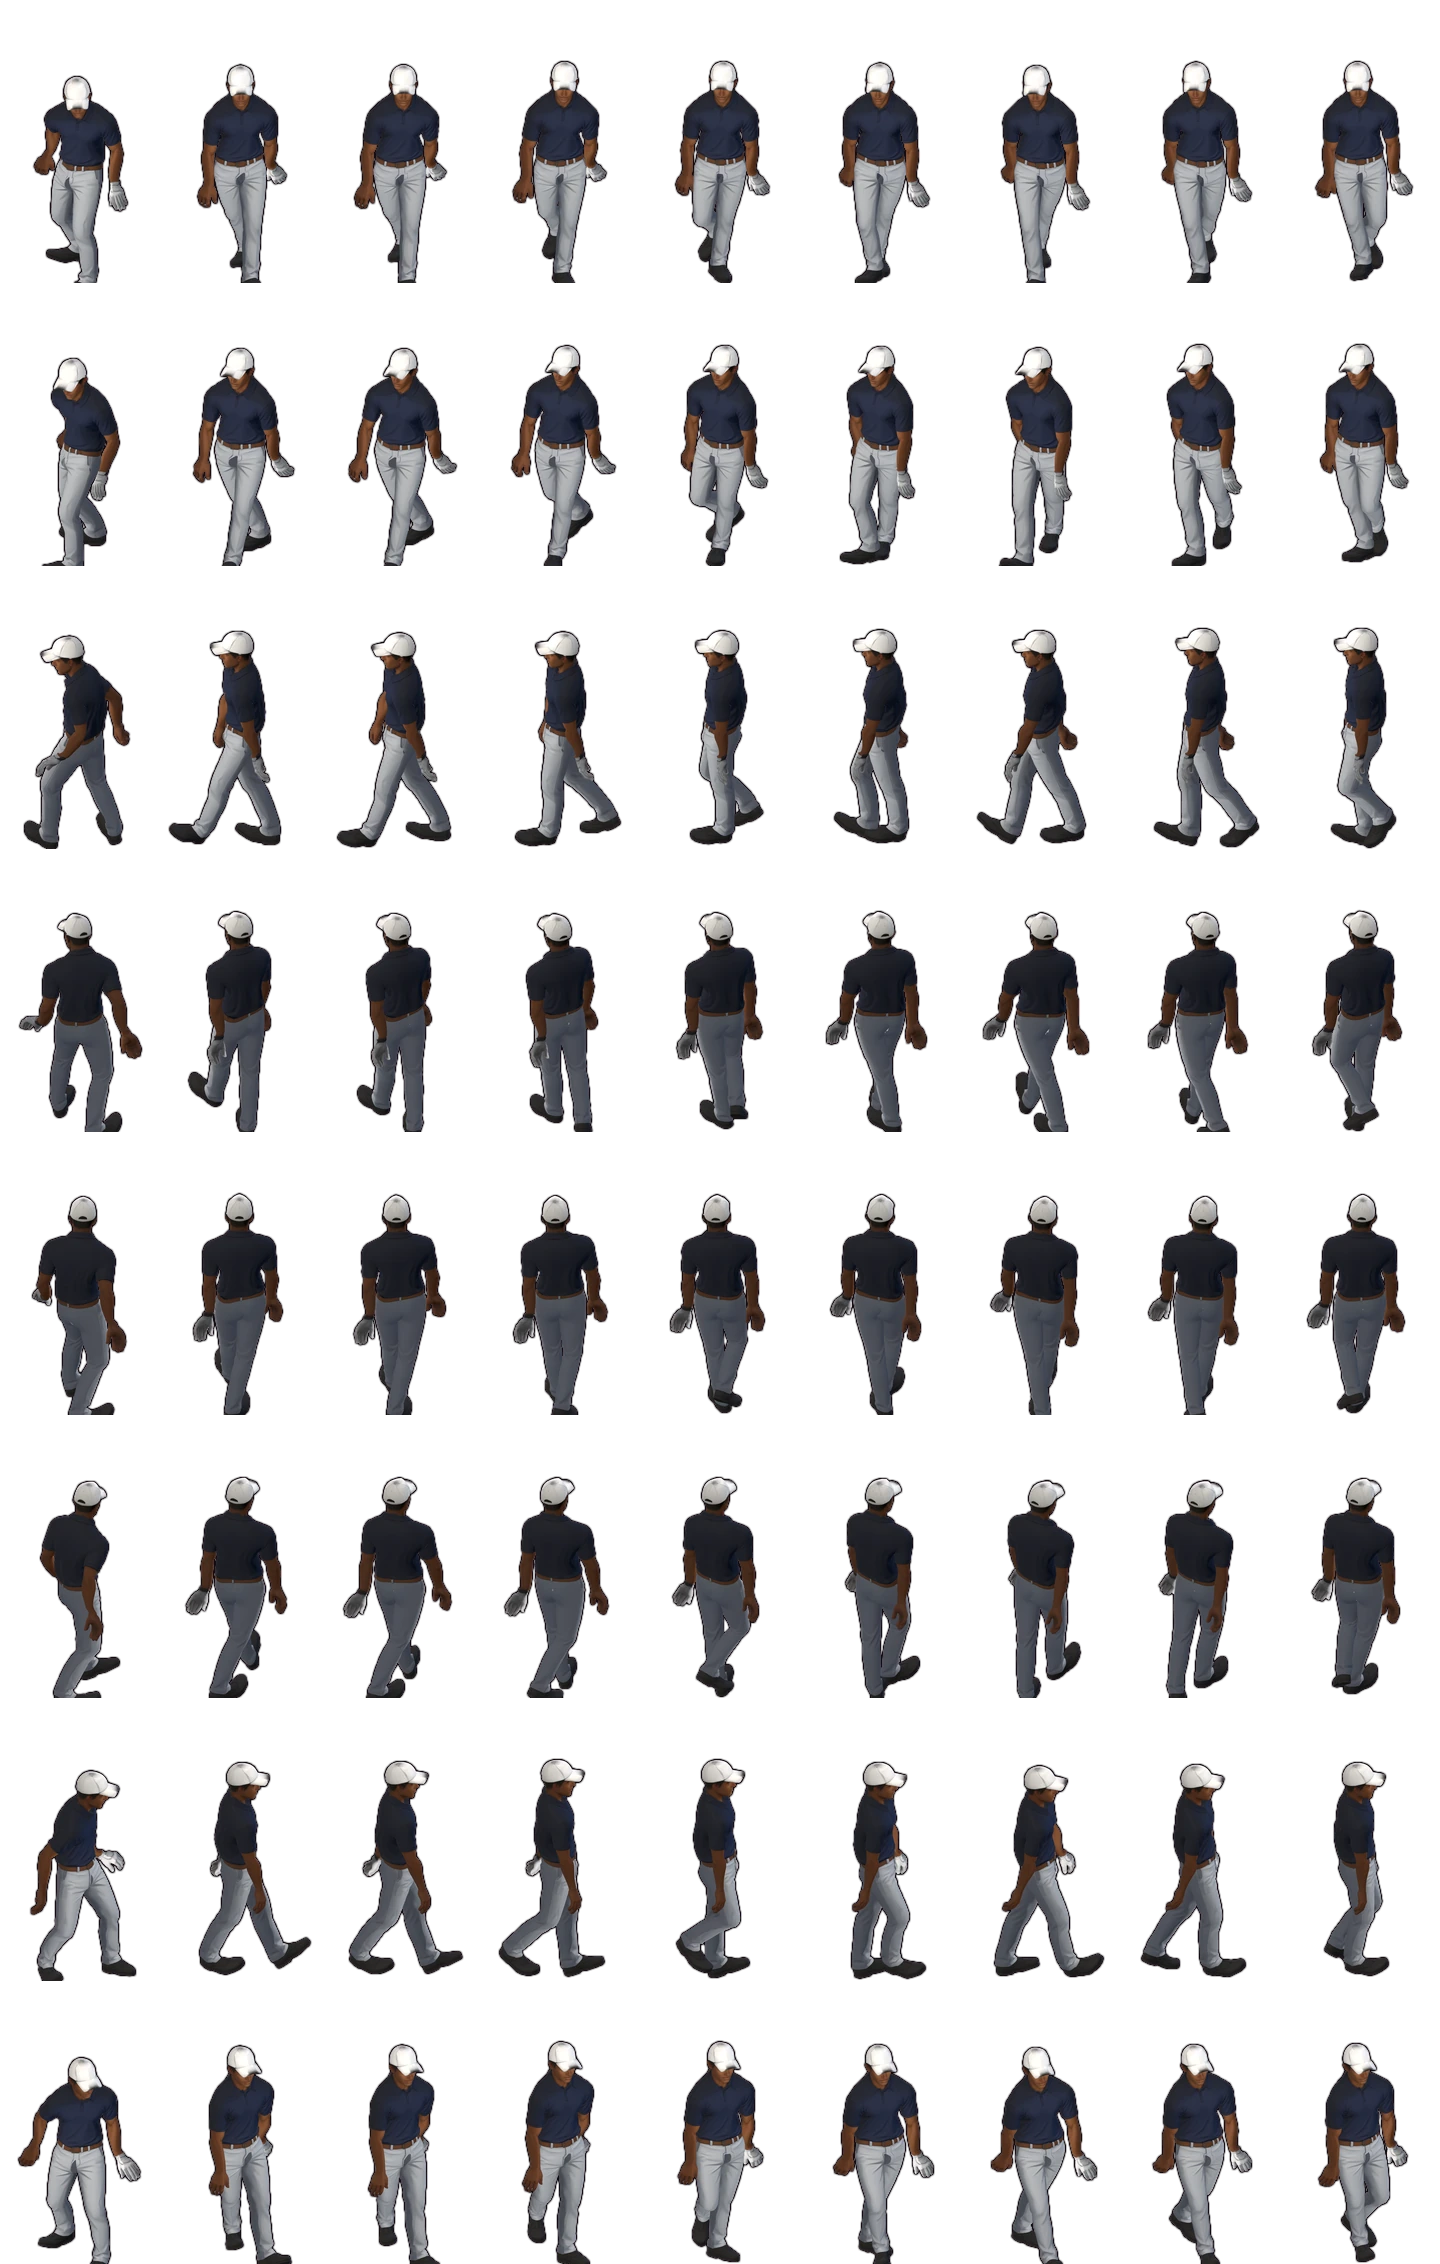
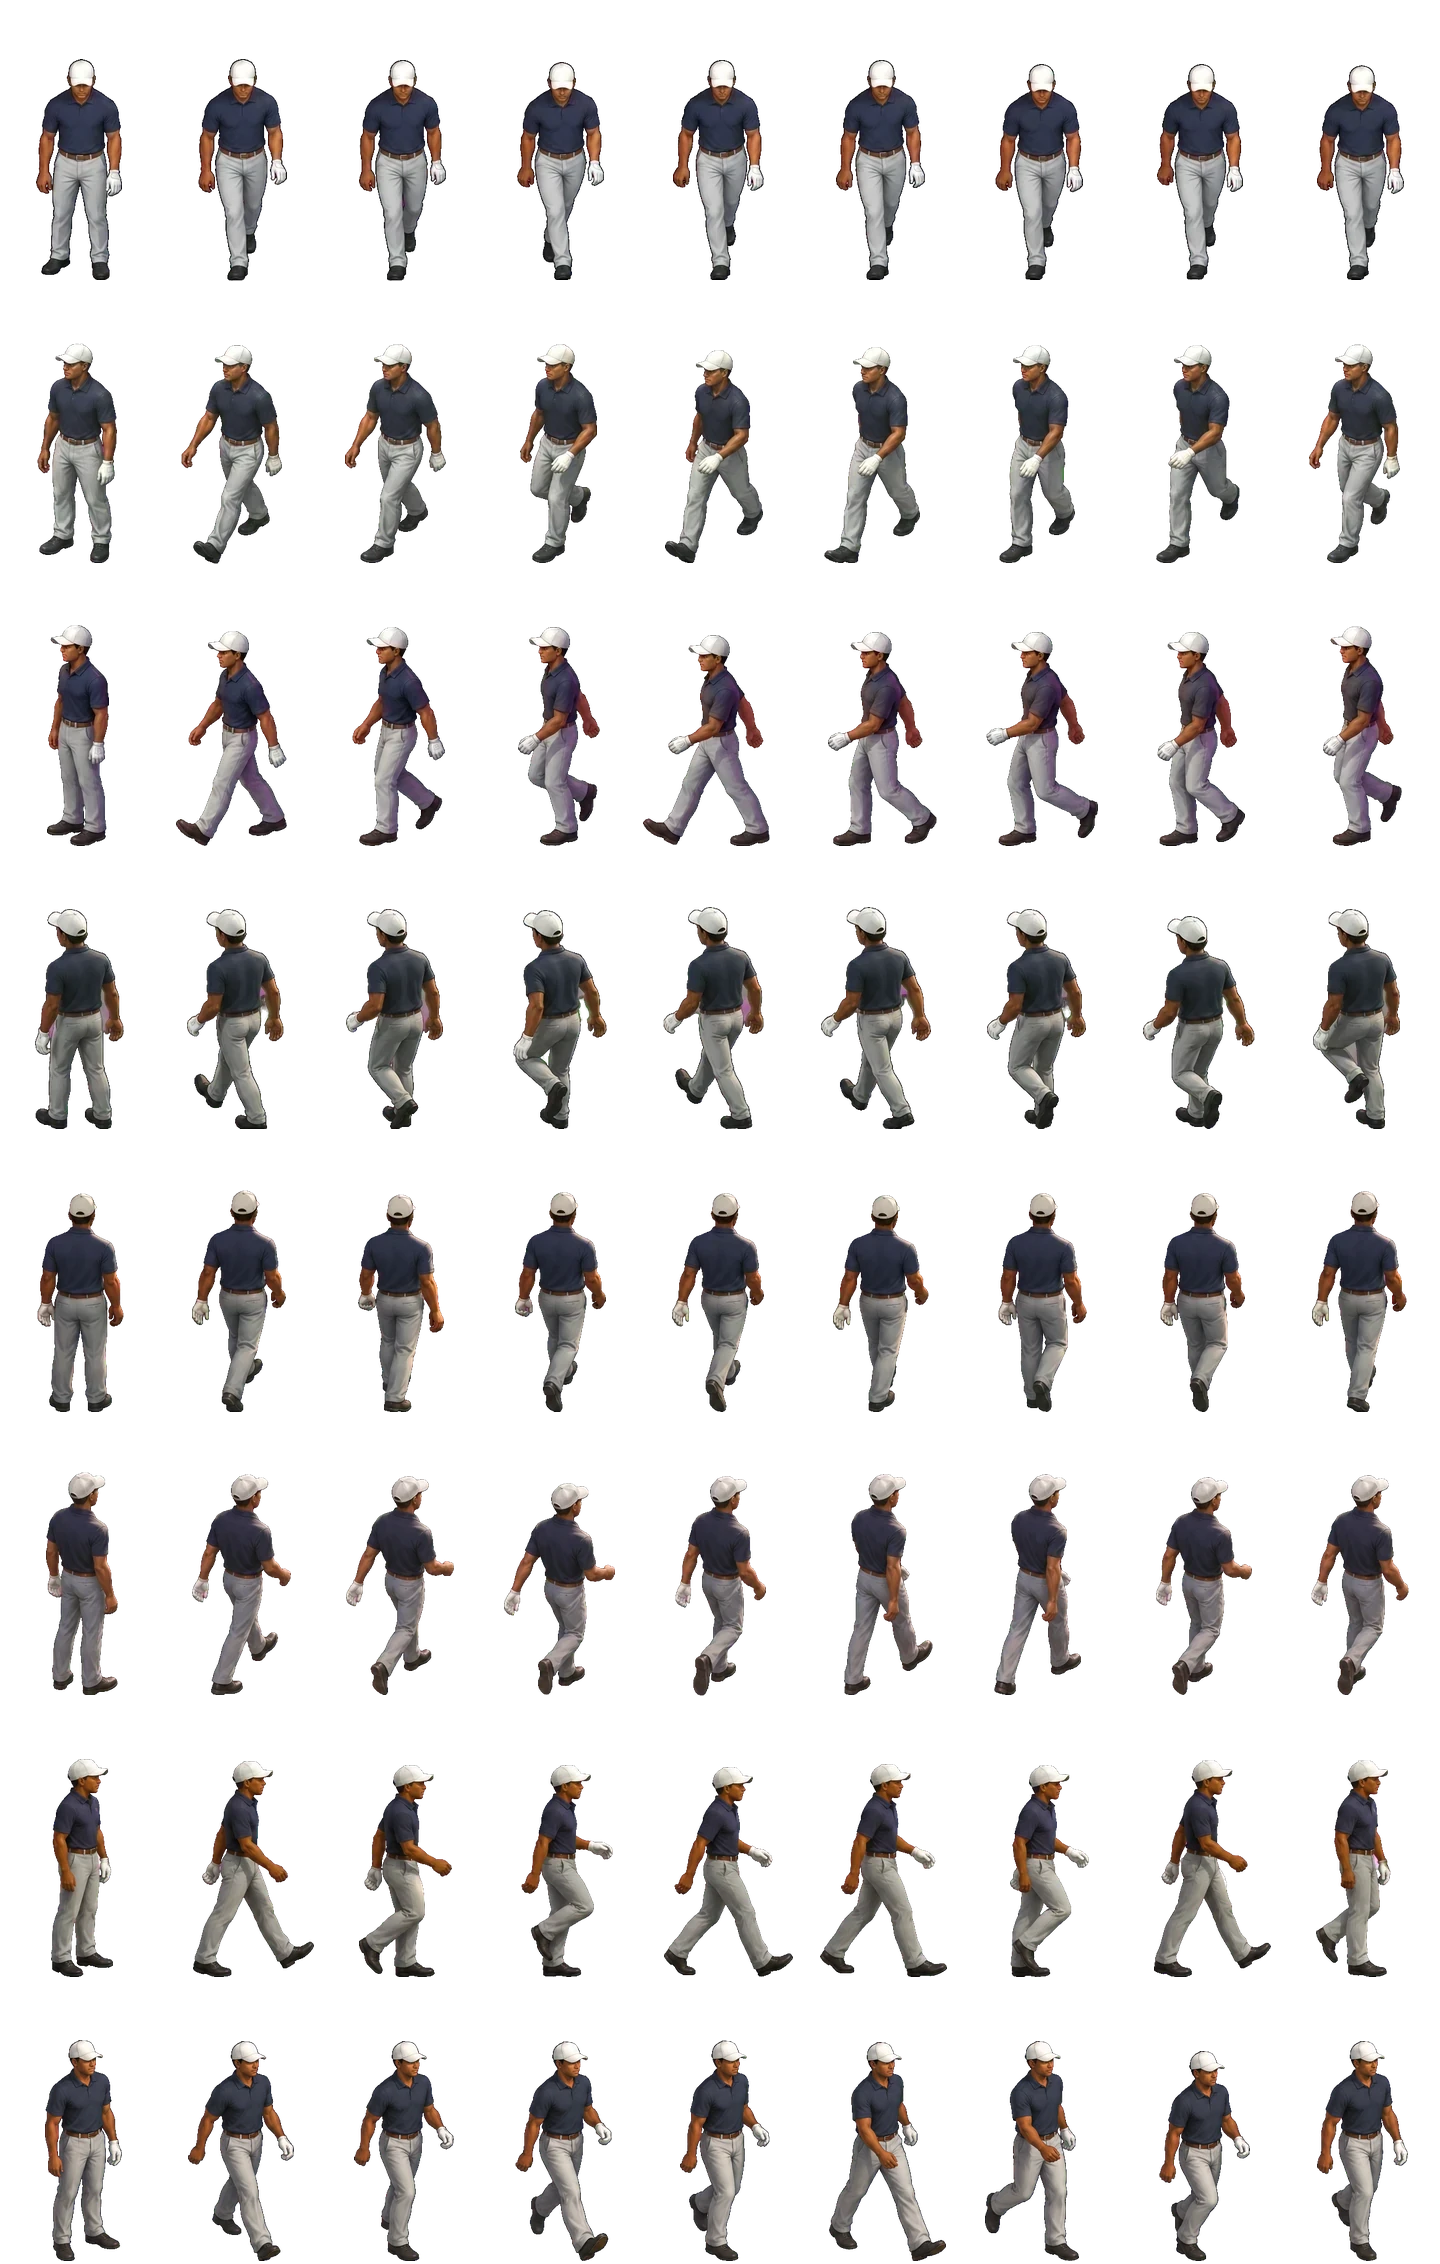
[#1235] Golfers batch 3: golf_pro_m4, golf_pro_w1, golf_pro_w2 painted in ChatGPT (standing pose + walk, 8 headings; old sheets kept as sheet-old.*); golfer_pack.py --note for a colour re-run

diff --git a/scripts/assets/golfers/golfer_pack.py b/scripts/assets/golfers/golfer_pack.py
@@ -131,12 +131,14 @@ def main():
     ap.add_argument('--golfer', nargs='*'); ap.add_argument('--heading', nargs='*', default=HEADINGS)
     ap.add_argument('--out', default='D:/AI/chatgpt-bridge/guides/golfers'); ap.add_argument('--bridge', default='D:/AI/chatgpt-bridge')
     ap.add_argument('--skip-done', action='store_true')
+    ap.add_argument('--note', help='words added to the clothes line, e.g. "the trousers pure white, not beige or cream" (a re-run of a colour that drifted)')
     a = ap.parse_args()
     gids = a.golfer or sorted(d.name for d in ART.iterdir() if (d / 'sheet.json').exists())
     out, bridge, queue = Path(a.out), Path(a.bridge), []
     for gid in gids:
         cells, j = frames(gid)
         keyname = pick_key(cells); key, keyhex = KEYS[keyname]; wear = outfit(cells)
+        if a.note: wear += '; ' + a.note
         (out / gid).mkdir(parents=True, exist_ok=True); ref = out / gid / 'ref.png'; ref_png(cells, ref)
         for h in a.heading:
             name = f'{gid}~{h}'
